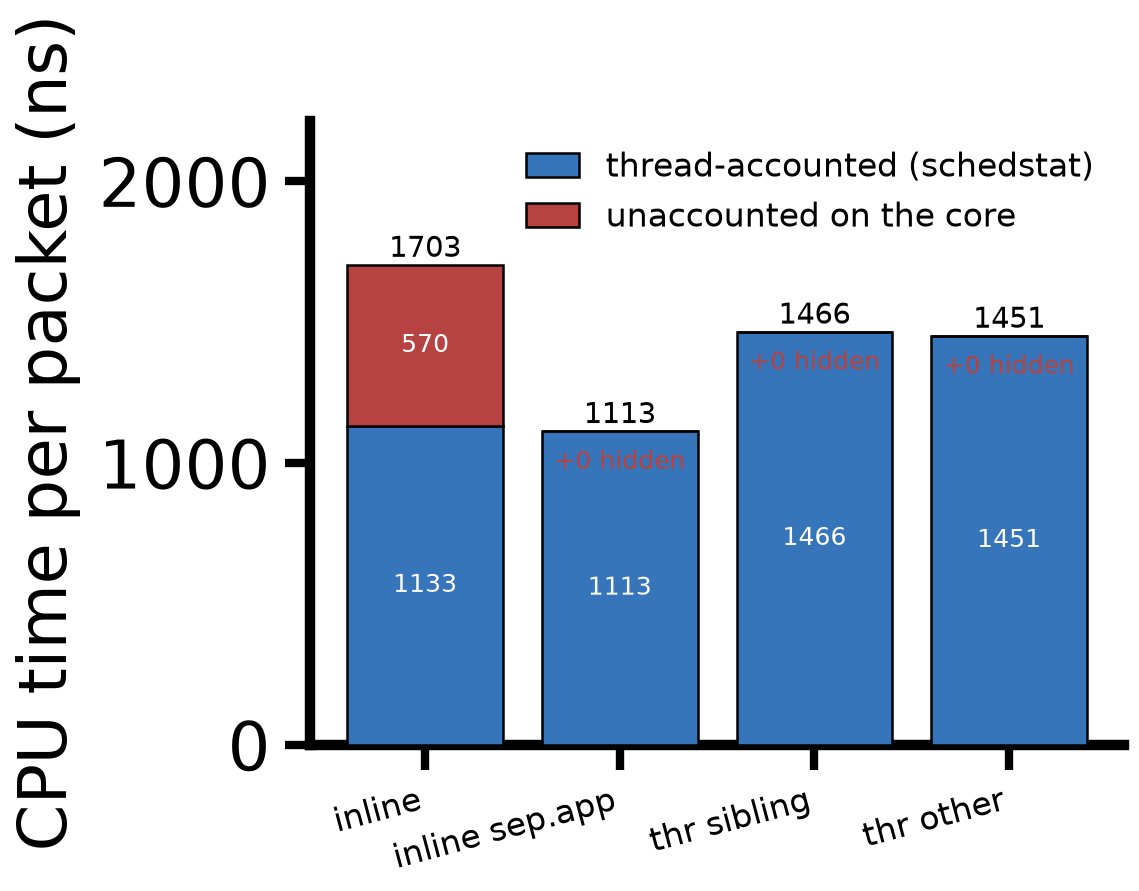
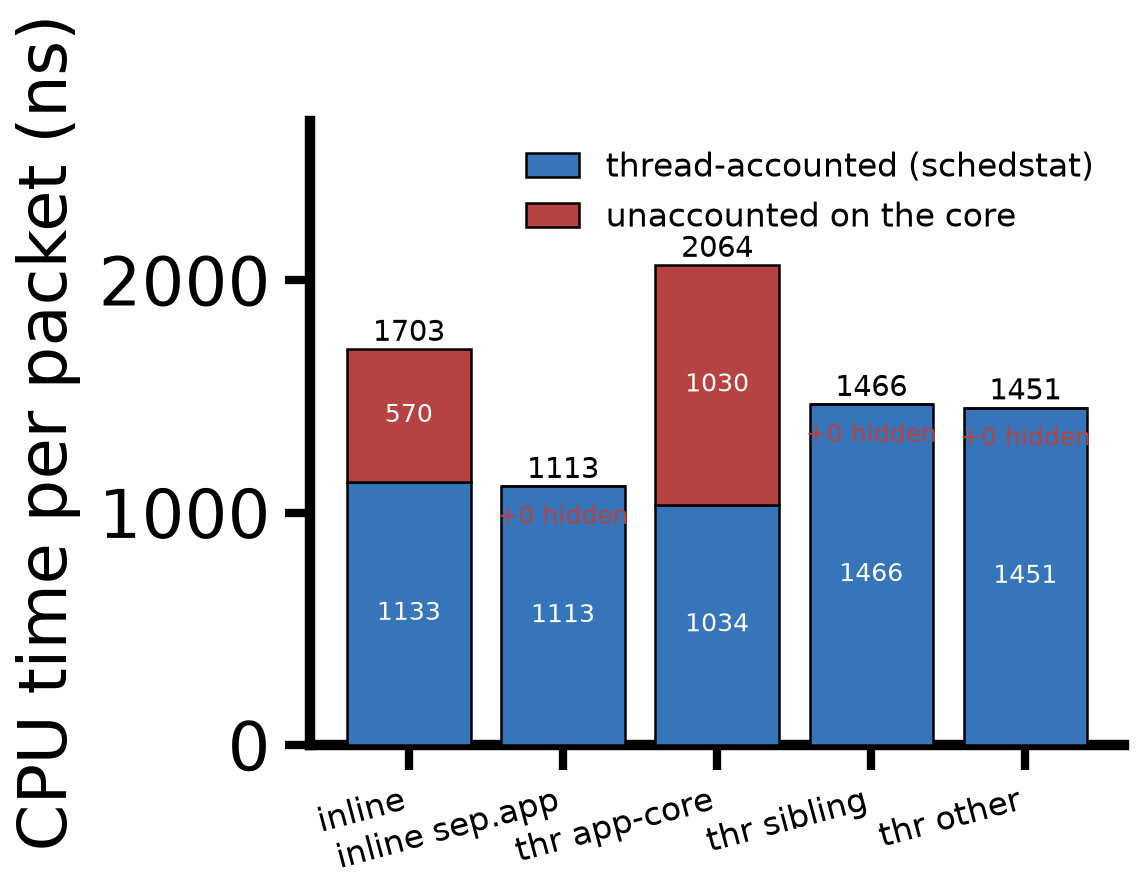
p1-LADDER: figs 1-3 dataset complete (111 rows), P0X headline numbers, DR-001 proposed (rule-4 claim revision)

Changed region(s): [[0.0922, 0.2424, 0.9833, 0.9697], [0.0922, 0.4848, 0.2766, 0.6061], [0.0922, 0.1515, 0.2766, 0.2424]]

diff --git a/decisions/DR-001.md b/decisions/DR-001.md
@@ -1,0 +1,53 @@
+# DR-001: Fig. 1 claim revision -- separation drains more, but the
+# threaded rungs are wedge-limited at flood (proposed, PI's call)
+
+Date: 2026-09-24 · Status: PROPOSED (skeleton rule 4 requires the PI's
+decision before the claim list changes) · Trigger: fig1-3 dataset
+complete (111 verified rows)
+
+## Decision needed
+Fig. 1's claim reads "Inline collapses past the knee; deferral caps near
+half a core; separation drains more." The complete dataset partially
+falsifies it and partially strengthens it:
+
+| load | P0 default | P0X app-moved | P2 thr app-core | P3 thr sibling | P4 thr other |
+| --- | --- | --- | --- | --- | --- |
+| 1.0x knee (525k) | 85.7% | 99.5% | 84.9% | 79.4% | 62.6% |
+| 1.5x (790k) | 9.0% | 97.5% | 35.9% | 0.0% | 3.9% |
+| 2.0x (1050k) | 0.2% | 74.2% | 26.8% | 0.0% | 0.0% |
+
+(goodput share of offered, n=2-3, bootstrap CIs in
+checkpoints/2026-09-24-fig1-3-dataset-complete.md)
+
+- HOLDS and sharpens: separation drains more -- but the separation that
+  drains is separating the APPLICATION from the interrupt core while
+  processing stays inline (P0X: 74-98% under flood).
+- FAILS as stated: the threaded placements (the ladder's mechanism) do
+  not drain at flood; they wedge (C-008: 24/24 cells, onset t=2..68).
+
+## Proposed resolution (option A; alternatives below)
+Restrict the claim to what the data shows: "separating network
+processing from the application drains more -- when the separation
+keeps the queue's processing inline and moves the application (or,
+sub-flood, threads it). Under sustained flood the threaded placements
+are wedge-limited (C-008)." Consequences: Fig. 1 carries P0X as the top
+line and wedge markers; the ladder (Fig. 5) gains a wedge re-arm story
+and its rung-2 semantics are revisited (p1ctl v2: on wedge detection,
+fall back to inline-with-app-separated or re-thread); the intro's
+separation sentence follows.
+
+Option B: keep the claim and mark Fig. 1 Dropped (rejects the paper's
+own strongest measurement; not recommended).
+Option C: hold the claim list until the Fig. 4 cells + a P0X-vs-threaded
+flood A/B (5 reps) confirm or refute the table (recommended sequencing:
+this DR closes after those cells).
+
+## Evidence
+F-p1-LADDER-1 (fig1), rows-fig1-3{,b,c} + smoke46 + cal-1 (111 rows),
+AN-003 (wedge), C-008, checkpoints/2026-09-24-{fig1-3-draft,
+wedge-ab-verdict}.md.
+
+## What would change it
+P3/P4 flood cells delivering >=50% at 1.5x knee in the 5-rep finals
+(wedge onset shifting with the AN-004 launch fix would re-open the
+threaded-drain claim), or P0X failing to reproduce at 5 reps.

diff --git a/checkpoints/2026-09-24-fig1-3-dataset-complete.md b/checkpoints/2026-09-24-fig1-3-dataset-complete.md
@@ -1,0 +1,32 @@
+# 2026-09-24 — Figs 1–3 dataset complete (111 verified rows)
+
+Status: the fig1-3 collection program is CLOSED (fig1-3 + fig1-3b +
+fig1-3c re-runs + smoke46 + cal-1; dedup and validity filters leave 111
+rows; 5 dropped). chain6 is collecting Fig 4 (162 cells, ~17:00Z).
+
+## Headline table (goodput share of offered, n=2–3, 10k-resample
+bootstrap 95% CIs on the means)
+
+| load | P0 | P0X | P2 | P3 | P4 |
+| --- | --- | --- | --- | --- | --- |
+| 1.0x knee (525k) | 85.7% | 99.5% | 84.9% | 79.4% | 62.6% |
+| 1.5x (790k) | 9.0% | 97.5% | 35.9% | 0.0% | 3.9% |
+| 2.0x (1050k) | 0.2% | 74.2% | 26.8% | 0.0% | 0.0% |
+
+- [X] abstract recheck UNCHANGED: 0.20% [0.20, 0.20] at 2x knee (n=2);
+  0.13% [0.05, 0.21] at 2.5x (n=2).
+- P0 knee bracket: deliv 0.999 @390k, 0.998 @450k (n=1), 0.861 @525k,
+  0.094 @790k. Knee (>=95% delivery) = 450–525k pps at 64 B.
+- Fig 2 (W2, n=3): p50 P0 104.5 [27.5,144.5] vs P0X 55.2 [28.5,107.5] us.
+- Fig 3: hidden softirq share 26–42% at 390k (n=3).
+
+## Contract action (skeleton rule 4)
+Fig. 1's claim partially fails: the drain claim holds for P0X (app
+separation with inline processing) and fails for the threaded rungs at
+flood (wedge-limited, C-008). Decision record DR-001 (PROPOSED) offers
+the resolution; the claim list changes only on the PI's call. Fig. 1-3
+stay Draft; the intro's separation sentence follows DR-001's outcome.
+
+## Data locations
+analysis/rows-{fig1-3,fig1-3b,fig1-3c,smoke46,cal-1}.csv (committed),
+analysis/out/fig{1,2,3}.{png,pdf}, raw on rx:/root/p1/results/.
